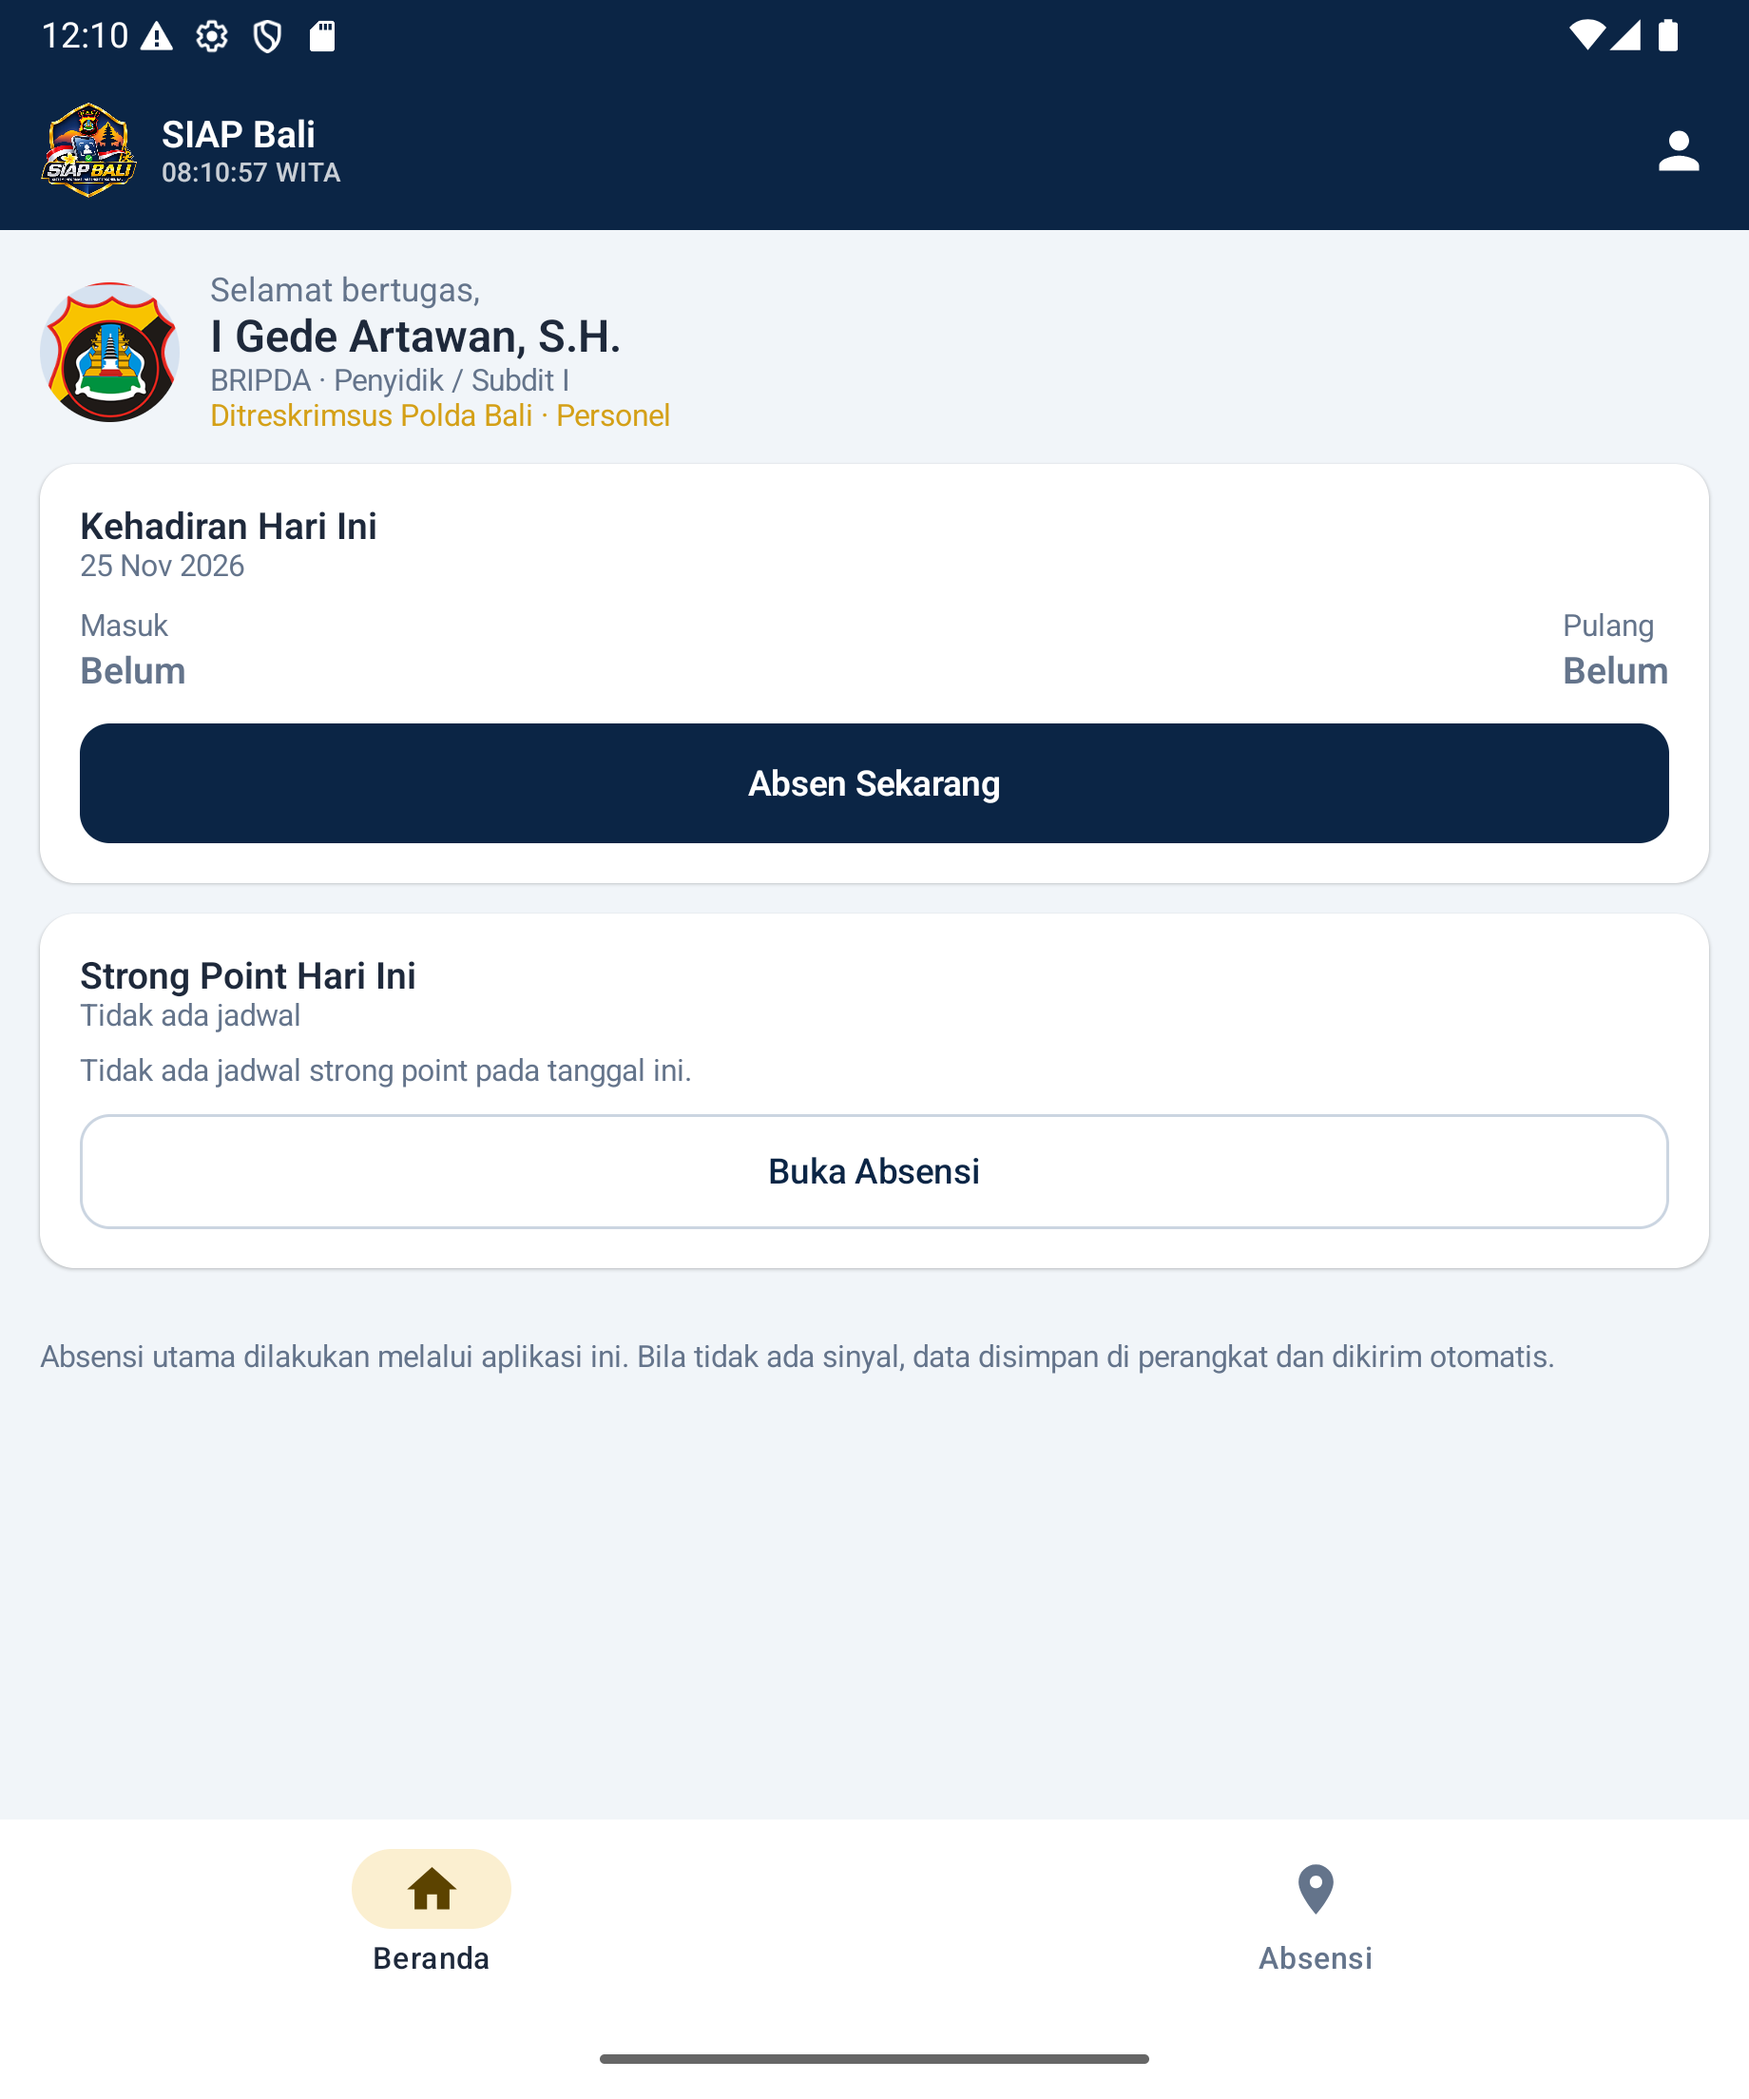
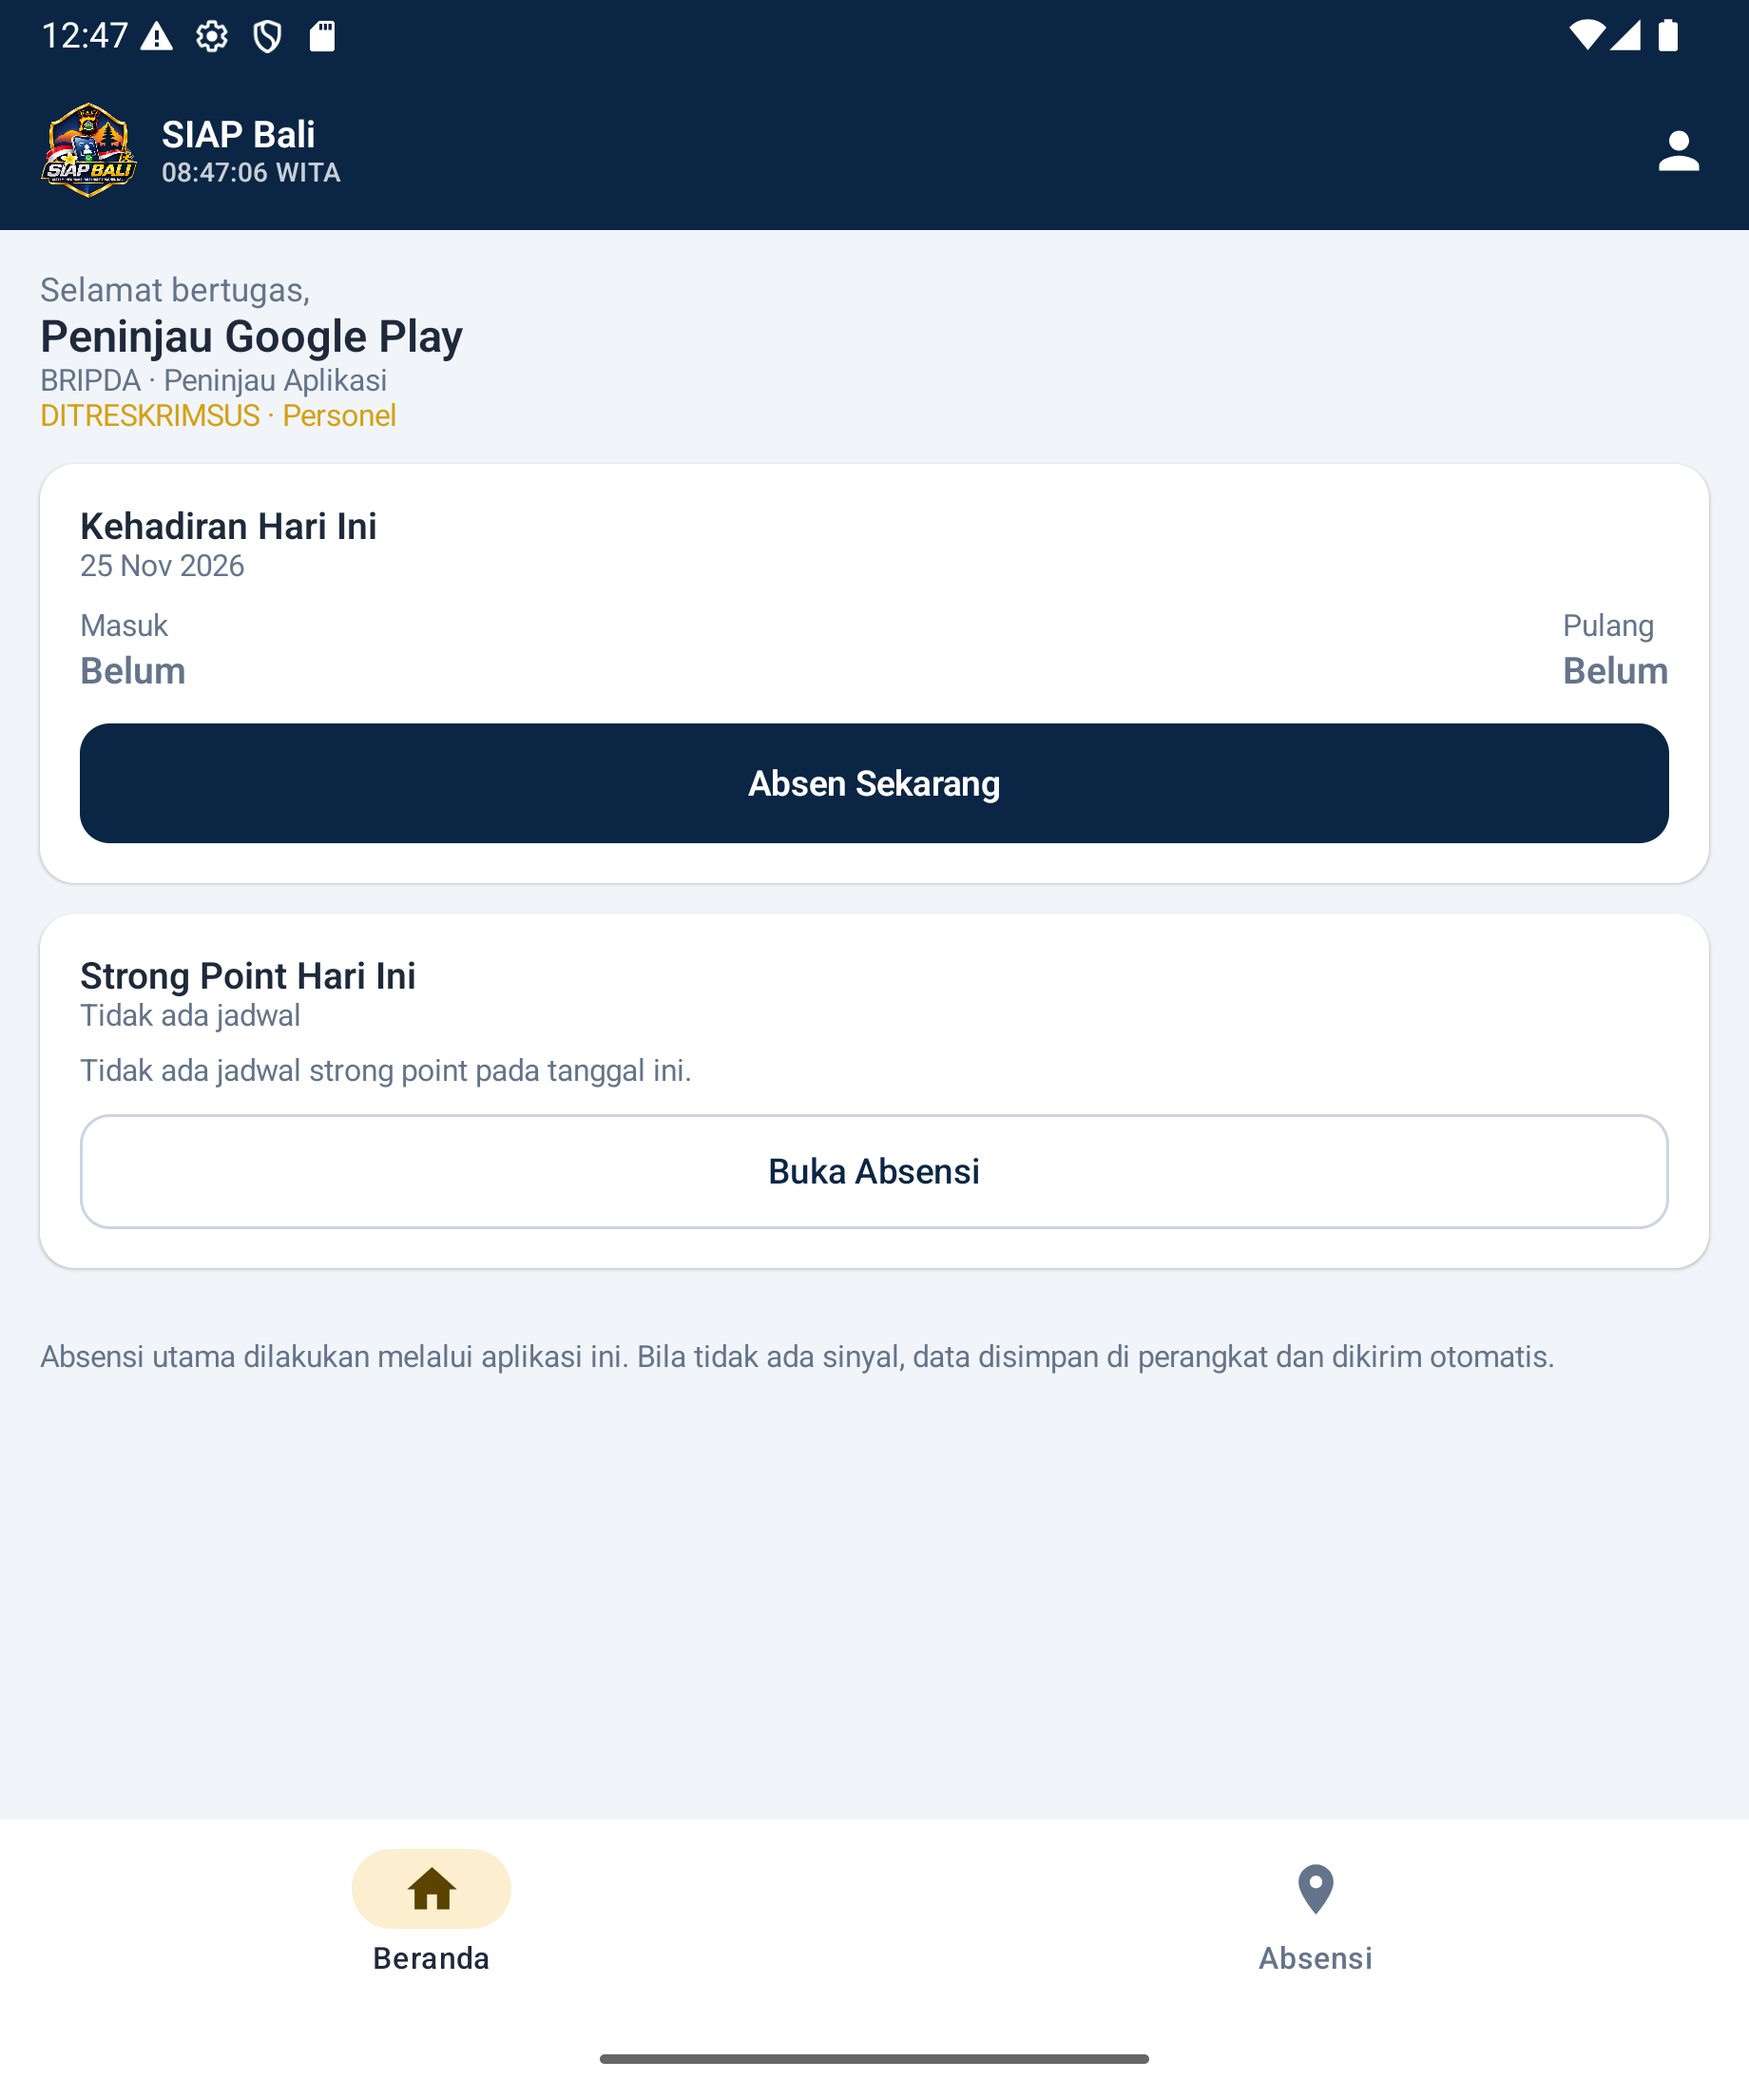
Lepas branding instansi dari materi Play Store
- applicationId menjadi id.jagradewata.siapbali
- Listing, kebijakan privasi, dan feature graphic tanpa nama instansi
- Catatan akun developer personal lama

Changed region(s): [[0.0, 0.125, 0.3717, 0.2188], [0.1239, 0.0625, 0.1549, 0.0938]]

diff --git a/dashboard/static/privacy-policy.html b/dashboard/static/privacy-policy.html
@@ -95,7 +95,7 @@
 
 				<p>
 					SIAP Bali (Sistem Informasi Absensi Personel Bali) adalah aplikasi absensi dan
-					strong point untuk personel Polda Bali dan Polres jajaran. Kebijakan ini menjelaskan
+					strong point untuk personel pada instansi yang menggunakan aplikasi. Kebijakan ini menjelaskan
 					data apa yang dikumpulkan, mengapa data tersebut dipakai, bagaimana data disimpan,
 					serta hak Anda atas data tersebut.
 				</p>
@@ -120,7 +120,7 @@
 				<h2 id="pengelola">1. Pengelola data</h2>
 				<p>
 					Data pribadi dalam aplikasi SIAP Bali dikelola untuk kepentingan administrasi
-					kehadiran dan penugasan personel Polda Bali. Pengelola teknis aplikasi dapat
+					kehadiran dan penugasan personel pada instansi pengguna. Pengelola teknis aplikasi dapat
 					dihubungi melalui alamat surel pada bagian <a href="#kontak">Kontak</a>.
 				</p>
 
@@ -243,7 +243,7 @@
 				<ul>
 					<li>Surel: <a href="mailto:vinrul.id@gmail.com">vinrul.id@gmail.com</a></li>
 					<li>Website: <a href="https://absensi.jagradewata.id">absensi.jagradewata.id</a></li>
-					<li>Alamat: Polda Bali, Denpasar, Bali, Indonesia</li>
+					<li>Alamat: Denpasar, Bali, Indonesia</li>
 				</ul>
 
 				<div class="note">

diff --git a/dashboard/src/routes/login/+page.svelte b/dashboard/src/routes/login/+page.svelte
@@ -63,8 +63,10 @@
 			<div class="flex items-center gap-3">
 				<img src="/logo-polda-bali.png" alt="Logo SIAP Bali" class="h-20 w-auto" />
 				<div>
-					<p class="text-sm font-semibold tracking-widest text-gold-400 uppercase">Polda Bali</p>
-					<p class="text-xs text-navy-200">Kepolisian Daerah Bali</p>
+					<p class="text-sm font-semibold tracking-widest text-gold-400 uppercase">
+						Aplikasi Absensi Personel
+					</p>
+					<p class="text-xs text-navy-200">Berbasis lokasi &amp; strong point</p>
 				</div>
 			</div>
 

diff --git a/store/play/feature-graphic.html b/store/play/feature-graphic.html
@@ -87,7 +87,7 @@
 		<div class="konten">
 			<img class="logo" src="../../logo_polda_bali.png" alt="Logo SIAP Bali" />
 			<div class="teks">
-				<p class="instansi">POLDA BALI</p>
+				<p class="instansi">APLIKASI ABSENSI PERSONEL</p>
 				<h1>SIAP Bali</h1>
 				<p class="sub">Sistem Informasi Absensi Personel Bali</p>
 				<div class="garis"></div>

diff --git a/dashboard/static/hapus-data.html b/dashboard/static/hapus-data.html
@@ -160,7 +160,7 @@
 				<p>
 					Surel: <a href="mailto:vinrul.id@gmail.com">vinrul.id@gmail.com</a><br />
 					Website: <a href="https://absensi.jagradewata.id">absensi.jagradewata.id</a><br />
-					Alamat: Polda Bali, Denpasar, Bali, Indonesia
+					Alamat: Denpasar, Bali, Indonesia
 				</p>
 			</article>
 		</main>

diff --git a/docs/play-store.md b/docs/play-store.md
@@ -13,7 +13,7 @@ serta keputusan yang harus diambil sebelum unggahan pertama.
 | Item | Nilai |
 |---|---|
 | Nama tampilan | **SIAP Bali** |
-| Application ID | `id.polri.poldabali.kinerja` |
+| Application ID | `id.jagradewata.siapbali` |
 | Version code / name | `1` / `1.0.0` |
 | minSdk / targetSdk | 26 / 36 |
 | Kanal login | Android (`client=android`) |
@@ -36,29 +36,22 @@ dan ditandatangani dengan sertifikat upload.
 
 ## 2. Keputusan penting sebelum unggah
 
-### 2.1 Nama paket `id.polri.poldabali.kinerja`
+### 2.1 Nama paket
 
-Nama paket **permanen** setelah aplikasi pertama kali diunggah ke Play Console. Karena memakai
-domain `polri`, Google Play dapat meminta bukti kewenangan (kebijakan impersonation/aplikasi
-pemerintah). Pilih salah satu:
+`applicationId` final: **`id.jagradewata.siapbali`**, memakai domain pengembang. Nama paket
+bersifat permanen setelah unggahan pertama. Identitas Play tidak memakai nama instansi, sehingga
+listing tidak mengklaim afiliasi dengan Polda Bali/Polri. `namespace` internal Android masih
+`id.polri.poldabali.kinerja`, tetapi yang menentukan identitas Play adalah `applicationId`.
 
-- **A. Aplikasi resmi Polda Bali** — siapkan surat tugas/keterangan dari Polda Bali yang
-  menyatakan aplikasi dan logo digunakan untuk absensi personel. Gunakan akun developer
-  organisasi bila tersedia. Cantumkan dokumen saat Play Console meminta.
-- **B. Belum ada surat resmi** — ganti `applicationId` **sebelum unggahan pertama** ke domain
-  yang Anda kendalikan, misalnya `id.jagradewata.siapbali`. Ubah di
-  `android/app/build.gradle.kts` (`applicationId`), lalu build ulang AAB. `namespace` internal
-  boleh tetap. Setelah diunggah, nama paket tidak dapat diubah.
-
-Jangan mengunggah AAB sebelum keputusan ini final.
+Jika suatu saat ingin menerbitkan aplikasi resmi berlabel instansi, gunakan aplikasi dan akun
+developer terpisah dengan izin resmi.
 
 ### 2.2 Tipe akun developer
 
-- **Akun personal baru** — Google mewajibkan **closed testing** dengan minimal **12 tester
-  selama 14 hari** sebelum dapat mengajukan produksi (kebijakan dapat berubah; ikuti petunjuk
-  di Play Console → *Testing requirements*).
-- **Akun organisasi** — umumnya tidak terkena kewajiban tersebut, tetapi perlu verifikasi
-  organisasi.
+Akun yang dipakai adalah **akun personal yang sudah lama**. Kewajiban closed testing (minimal
+12 tester selama 14 hari) berlaku untuk akun personal **baru**; karena akun sudah lama,
+kemungkinan besar kewajiban tersebut tidak berlaku. Tetap cek **Play Console → Testing
+requirements** sebelum mengajukan produksi.
 
 ### 2.3 Akun peninjau (sudah dibuat di produksi)
 
@@ -131,13 +124,13 @@ SIAP Bali
 ### Deskripsi singkat (maks. 80 karakter)
 
 ```
-Absensi GPS, strong point, dan rekap kehadiran personel Polda Bali.
+Absensi GPS, strong point, dan rekap kehadiran personel.
 ```
 
 ### Deskripsi lengkap (maks. 4.000 karakter)
 
 ```
-SIAP Bali (Sistem Informasi Absensi Personel Bali) adalah aplikasi absensi dan strong point untuk personel Polda Bali dan Polres jajaran. Aplikasi membantu pencatatan kehadiran berbasis lokasi, pelaksanaan strong point, serta pemantauan rekap kehadiran secara tertib dan transparan.
+SIAP Bali (Sistem Informasi Absensi Personel Bali) adalah aplikasi absensi dan strong point untuk personel pada instansi yang menggunakan aplikasi. Aplikasi membantu pencatatan kehadiran berbasis lokasi, pelaksanaan strong point, serta pemantauan rekap kehadiran secara tertib dan transparan.
 
 Fitur utama:
 • Absensi berbasis GPS — check-in dan check-out dengan validasi lokasi dan radius titik dinas.
@@ -147,7 +140,7 @@ Fitur utama:
 • Bekerja offline — absensi tersimpan di perangkat lalu dikirim otomatis saat jaringan tersedia.
 • Keamanan — sesi login aman dan data hanya dapat diakses personel serta pengelola yang berwenang.
 
-Aplikasi ini diperuntukkan bagi personel Polda Bali yang telah memiliki akun dari admin satker. Akun tidak dapat didaftarkan sendiri melalui aplikasi.
+Aplikasi ini diperuntukkan bagi personel yang telah memiliki akun dari admin instansi. Akun tidak dapat didaftarkan sendiri melalui aplikasi.
 
 Catatan: beberapa fitur memerlukan izin lokasi, kamera, dan notifikasi. Izin lokasi hanya digunakan saat proses absensi/strong point, bukan untuk pelacakan terus-menerus.
 
@@ -194,7 +187,7 @@ Rilis perdana SIAP Bali: absensi GPS, strong point, riwayat kehadiran, mode offl
    - **Target audience**: pilih **18+**; aplikasi bukan untuk anak.
    - **News app**: No.
    - **Data safety**: isi sesuai §6.2.
-   - **Government apps**: jawab sesuai fakta; unggah surat kewenangan bila ada.
+   - **Government apps**: aplikasi tidak mengklaim afiliasi pemerintah; jawab sesuai fakta.
    - **Financial features / Health**: No.
    - **App category**: Business.
 
@@ -203,9 +196,9 @@ Rilis perdana SIAP Bali: absensi GPS, strong point, riwayat kehadiran, mode offl
    - Tambahkan email Anda sebagai tester.
    - Bagikan link opt-in, pasang dari Play Store, lalu uji login + absensi + riwayat.
 
-5. **Closed testing (bila akun personal baru)**
-   - Tambahkan minimal 12 tester, jalankan 14 hari, kumpulkan umpan balik.
-   - Jika akun organisasi/terverifikasi, tahap ini bisa dilewati sesuai petunjuk Play.
+5. **Closed testing (bila diminta Play Console)**
+   - Akun personal lama umumnya tidak terkena kewajiban 12 tester/14 hari. Jika Play Console
+     menampilkan persyaratan tersebut, tambahkan tester dan jalankan sesuai petunjuk.
 
 6. **Production**
    - Promote release dari testing, pilih negara **Indonesia**, isi catatan rilis.
@@ -275,8 +268,7 @@ terstruktur.
 
 ## 7. Checklist sebelum menekan Submit
 
-- [ ] Keputusan nama paket final (`id.polri...` atau ganti ke domain sendiri).
-- [ ] Surat kewenangan Polda Bali siap (bila memakai `id.polri`).
+- [ ] `applicationId` final `id.jagradewata.siapbali` dan AAB sudah di-build ulang.
 - [ ] Kebijakan privasi & halaman hapus data sudah ter-deploy dan **isinya benar** (bukan
       fallback SPA).
 - [ ] Akun peninjau `99999999` aktif dan bisa login di APK release (password di catatan internal).

diff --git a/README.md b/README.md
@@ -186,7 +186,7 @@ Build keduanya sekaligus:
 # AAB  : app\build\outputs\bundle\release\app-release.aab
 ```
 
-APK release memakai `applicationId` `id.polri.poldabali.kinerja` (tanpa `.debug`), sehingga
+APK release memakai `applicationId` `id.jagradewata.siapbali` (tanpa `.debug`), sehingga
 dapat terpasang berdampingan dengan build debug. Untuk produksi, server memakai HTTPS dan
 `src/main/res/xml/network_security_config.xml` menetapkan `cleartextTrafficPermitted="false"`.
 Build debug memakai override `src/debug/res/xml/network_security_config.xml` yang masih
@@ -232,21 +232,21 @@ Setelah emulator siap, build dan pasang APK dari root proyek:
 cd F:\absensi_polda_bali\android
 .\gradlew.bat :app:assembleDebug
 
-# APK debug memakai applicationId id.polri.poldabali.kinerja.debug
+# APK debug memakai applicationId id.jagradewata.siapbali.debug
 adb install -r app\build\outputs\apk\debug\app-debug.apk
 
 # Buka aplikasi tanpa menyentuh layar
-adb shell am start -n id.polri.poldabali.kinerja.debug/id.polri.poldabali.kinerja.MainActivity
+adb shell am start -n id.jagradewata.siapbali.debug/id.polri.poldabali.kinerja.MainActivity
 ```
 
 Perintah pemeliharaan yang sering dipakai:
 
 ```powershell
 # Hapus data aplikasi (sesi login & wizard izin kembali awal)
-adb shell pm clear id.polri.poldabali.kinerja.debug
+adb shell pm clear id.jagradewata.siapbali.debug
 
 # Copot aplikasi dari emulator
-adb uninstall id.polri.poldabali.kinerja.debug
+adb uninstall id.jagradewata.siapbali.debug
 
 # Matikan emulator
 exit   # pada terminal emulator, atau:
@@ -258,7 +258,7 @@ Catatan:
 - `seed --reset` mengganti id personel sehingga **sesi Android lama dapat gagal**; login ulang
   dengan akun demo (mis. `85000001` / `Polri#2026`).
 - Jika `adb install` menolak karena versi lama berbeda tanda tangan, jalankan
-  `adb uninstall id.polri.poldabali.kinerja.debug` lalu pasang ulang.
+  `adb uninstall id.jagradewata.siapbali.debug` lalu pasang ulang.
 - Emulator berjalan lebih cepat dengan `-gpu host -cores 4 -memory 4096`; bila emulator crash,
   ganti ke `-gpu swiftshader_indirect`.
 

diff --git a/docs/CHECKLIST.md b/docs/CHECKLIST.md
@@ -288,7 +288,7 @@ nilai di [`penilaian.md`](penilaian.md), dan skenario uji di [`UAT.md`](UAT.md).
 
 | # | Item | Status | Catatan |
 |---|---|---|---|
-| 10.1 | AAB release bertanda tangan | ✅ | `android/app/build/outputs/bundle/release/app-release.aab`; package `id.polri.poldabali.kinerja`, versionCode 1, targetSdk 36 |
+| 10.1 | AAB release bertanda tangan | ✅ | `android/app/build/outputs/bundle/release/app-release.aab`; package `id.jagradewata.siapbali`, versionCode 1, targetSdk 36 |
 | 10.2 | Aset store listing | ✅ | `store/play/`: ikon 512×512, feature graphic 1024×500, 4 screenshot 1840×2208 |
 | 10.3 | Kebijakan privasi & hapus data | ✅ | `dashboard/static/privacy-policy.html` & `hapus-data.html`; perlu deploy ke VPS |
 | 10.4 | Akun peninjau produksi | ✅ | NRP `99999999` (DITRESKRIMSUS); password disimpan di luar repo; APK release berhasil login ke produksi |
